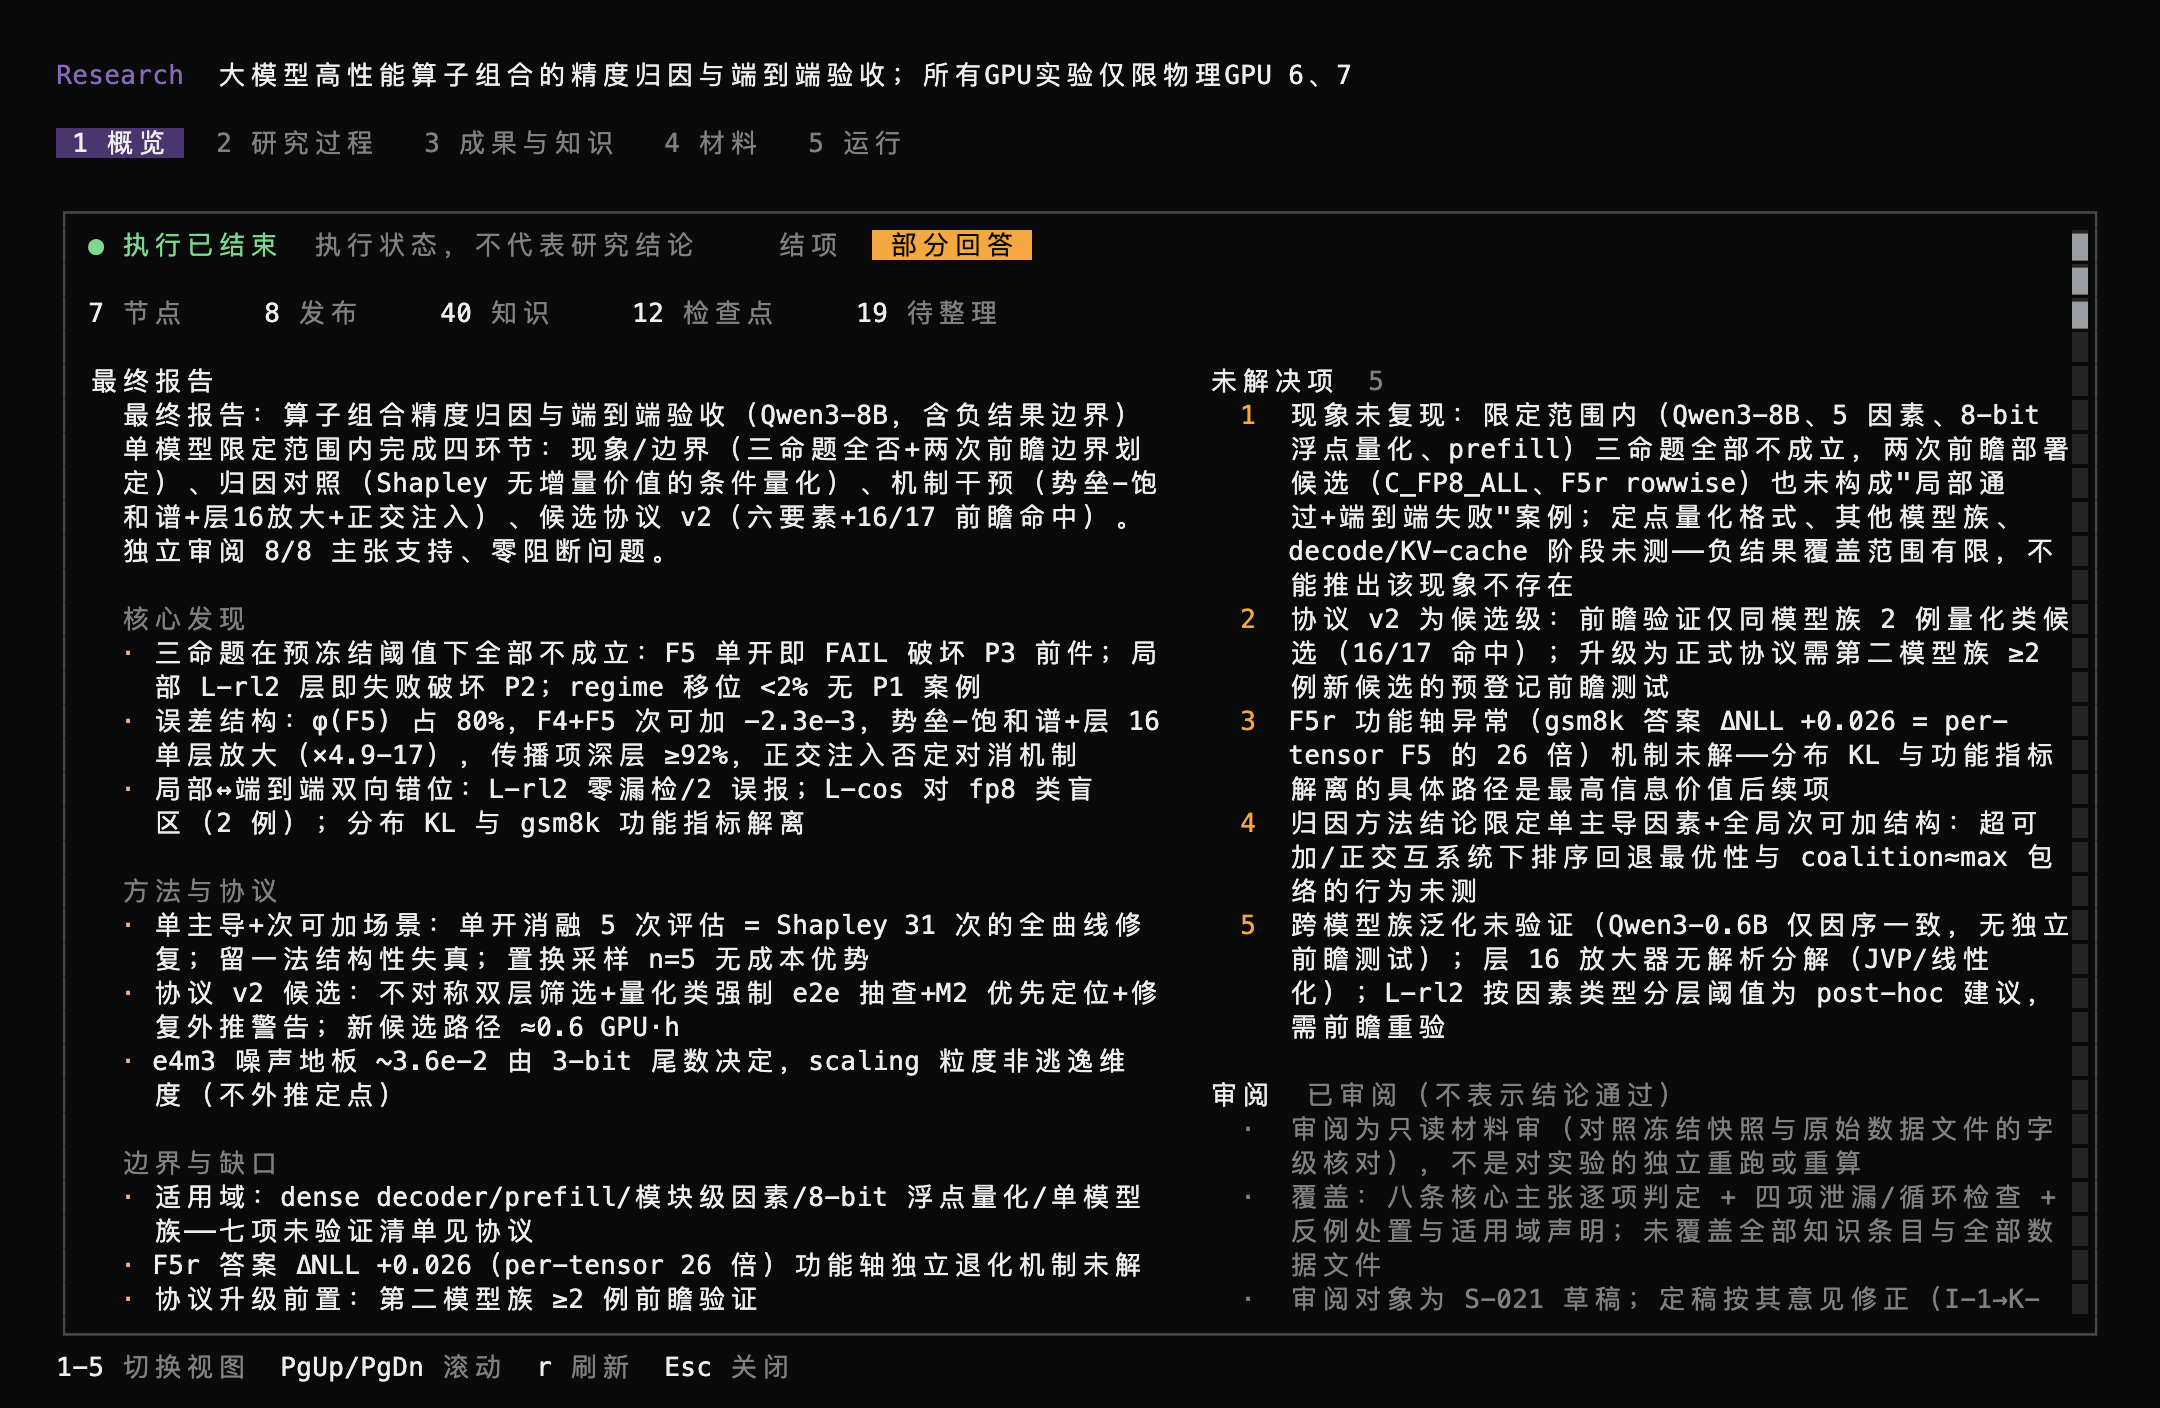
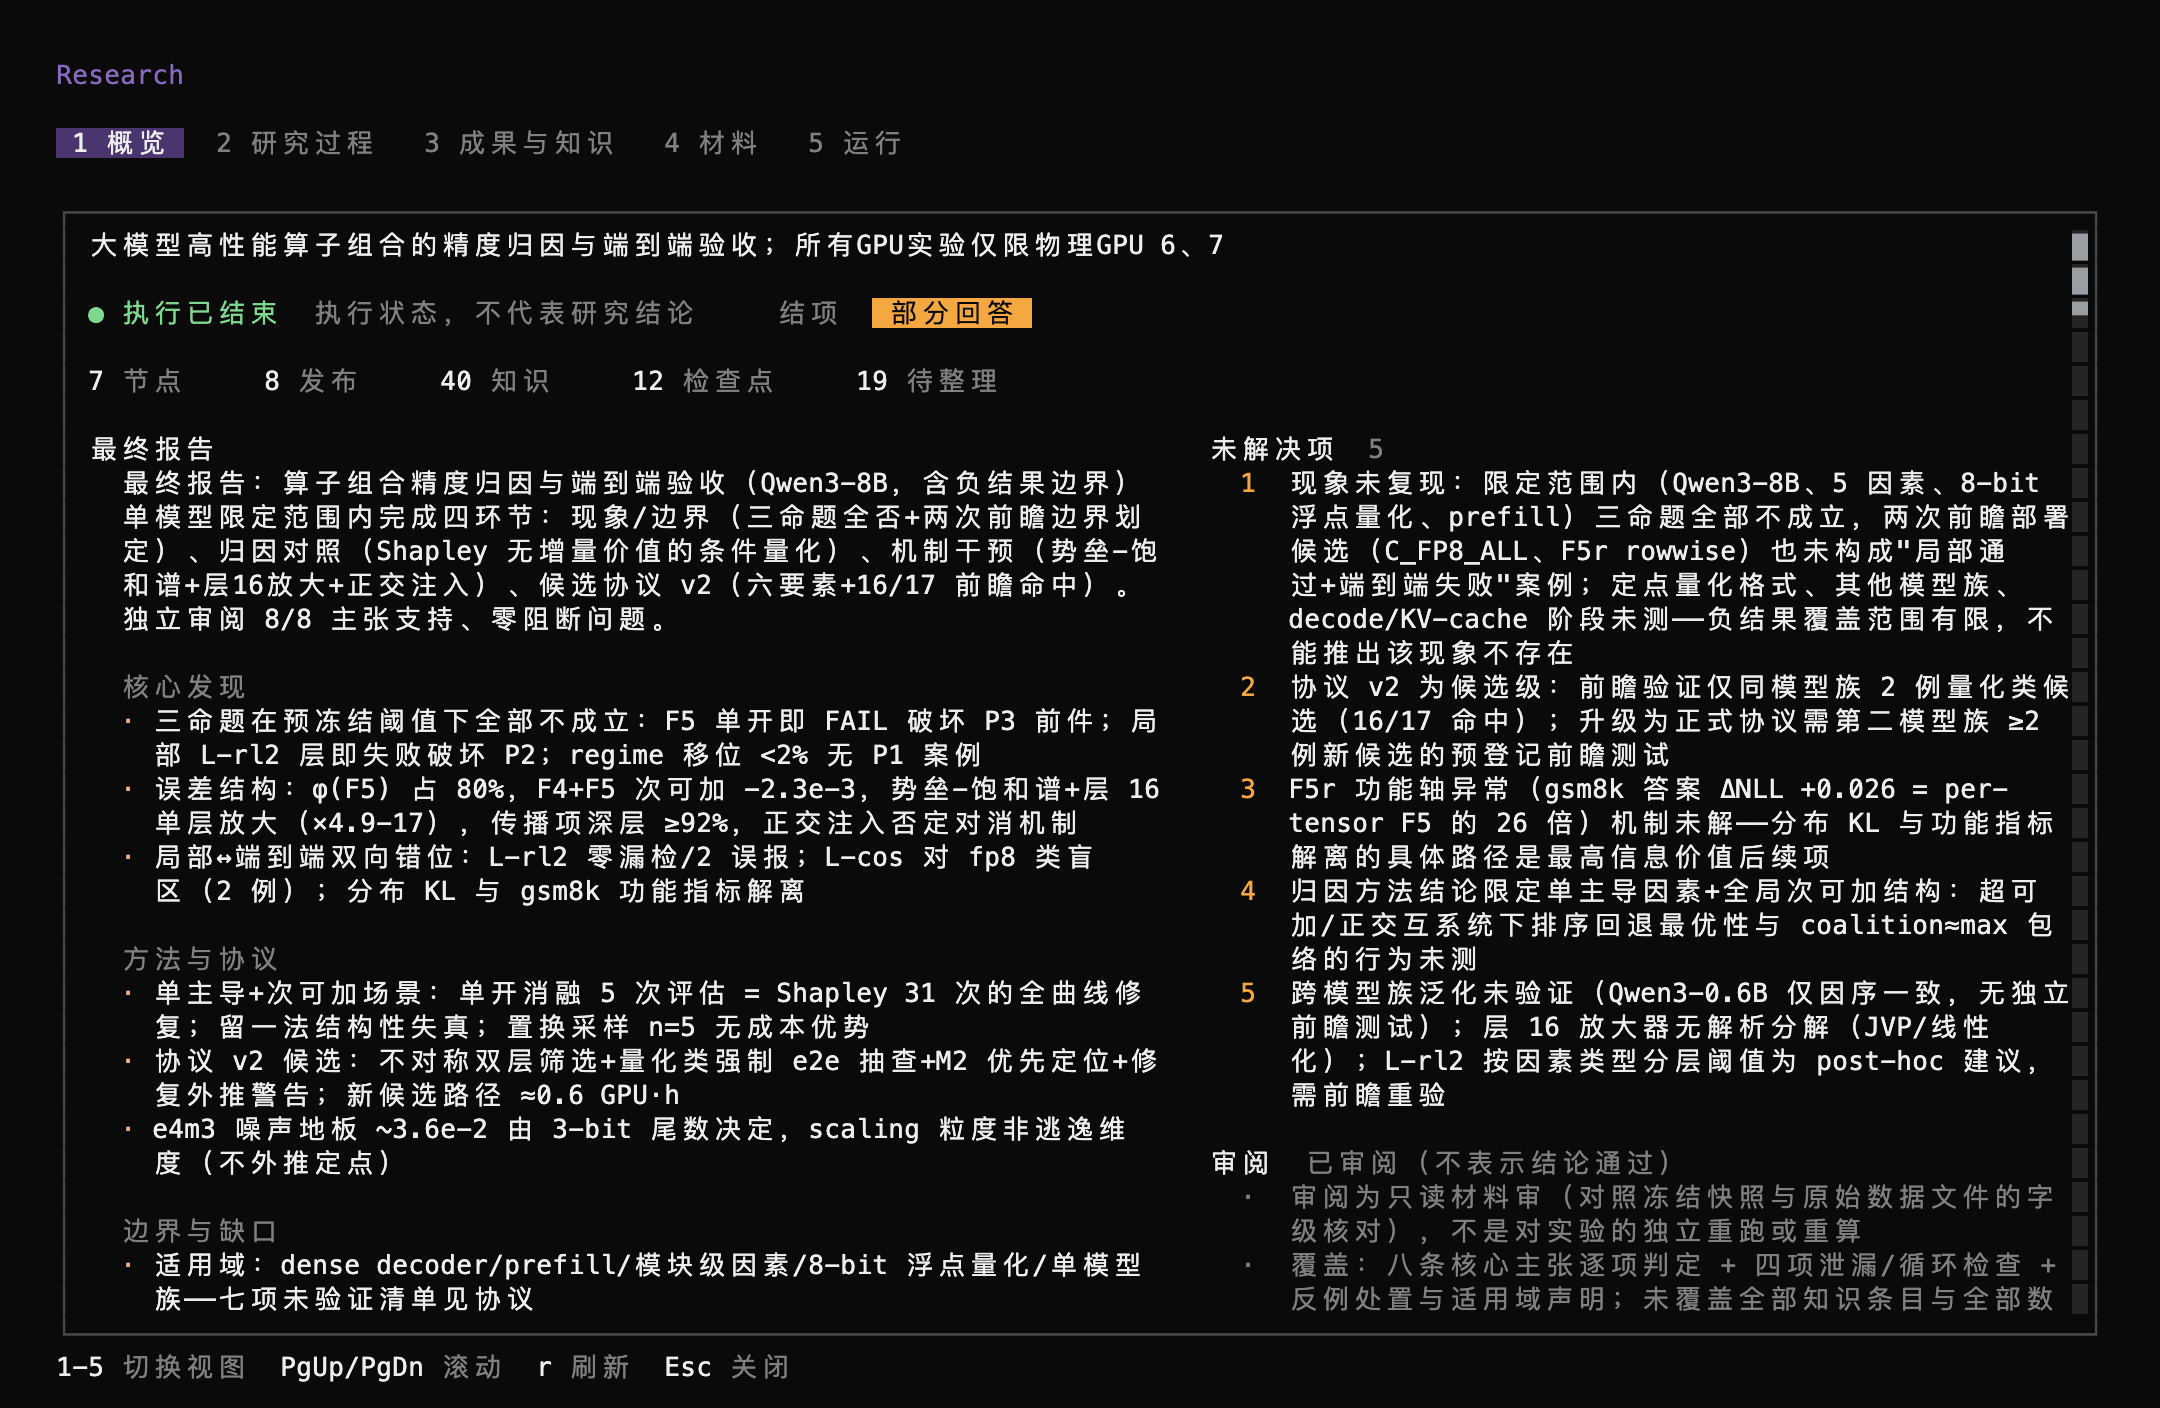
fix: show the full research goal on the overview
The overview had dropped the goal and the header cut it to one line, so a
long goal's scope and constraints, which come last, could not be read. The
overview now opens with the full goal, wrapped; the header leaves it out on
that tab only. The README overview screenshot shows the new layout.

Changed region(s): [[0.031, 0.1562, 0.5273, 0.9375], [0.5583, 0.25, 0.9616, 0.9375], [0.0931, 0.0312, 0.5894, 0.0625]]

diff --git a/plugin/src/board/Board.tsx b/plugin/src/board/Board.tsx
@@ -306,7 +306,10 @@ export function ResearchBoard(props: {
     <box flexDirection="column" width="100%" height="100%" paddingX={2} paddingTop={1} backgroundColor={theme.background.base}>
       <text wrapMode="none" flexShrink={0}>
         <span style={{ fg: colors.brand, attributes: TextAttributes.BOLD }}>Research</span>
-        <span style={{ fg: colors.base }}>{`  ${fit(summary()?.project?.goal ?? "研究看板", dimensions().width - 24)}`}</span>
+        {/* The overview shows the full goal; elsewhere one line keeps the context. */}
+        <span style={{ fg: colors.base }}>
+          {tab() === "overview" && summary()?.project ? "" : `  ${fit(summary()?.project?.goal ?? "研究看板", dimensions().width - 24)}`}
+        </span>
         <span style={{ fg: colors.muted }}>{loading() ? "  读取中…" : ""}</span>
       </text>
       <text wrapMode="none" flexShrink={0} marginTop={1}>

diff --git a/plugin/src/board/OverviewView.tsx b/plugin/src/board/OverviewView.tsx
@@ -183,10 +183,14 @@ export function OverviewView(props: { context: Context; model: OverviewModel | n
             </Section>
           </box>
         )
-        // The goal is already in the board header; the page opens with the verdict.
+        // The full goal, wrapped: the header shortens it to one line, and a long
+        // goal's scope and constraints come last. The header omits it on this tab.
         return (
           <box flexDirection="column">
-            <text wrapMode="none">
+            <text>
+              <span style={{ fg: colors.base, attributes: TextAttributes.BOLD }}>{model().goal}</span>
+            </text>
+            <text wrapMode="none" marginTop={1}>
               <span style={{ fg: colors.execution[execution()] }}>
                 {`${EXECUTION[execution()].glyph} ${model().runLabel}`}
               </span>
